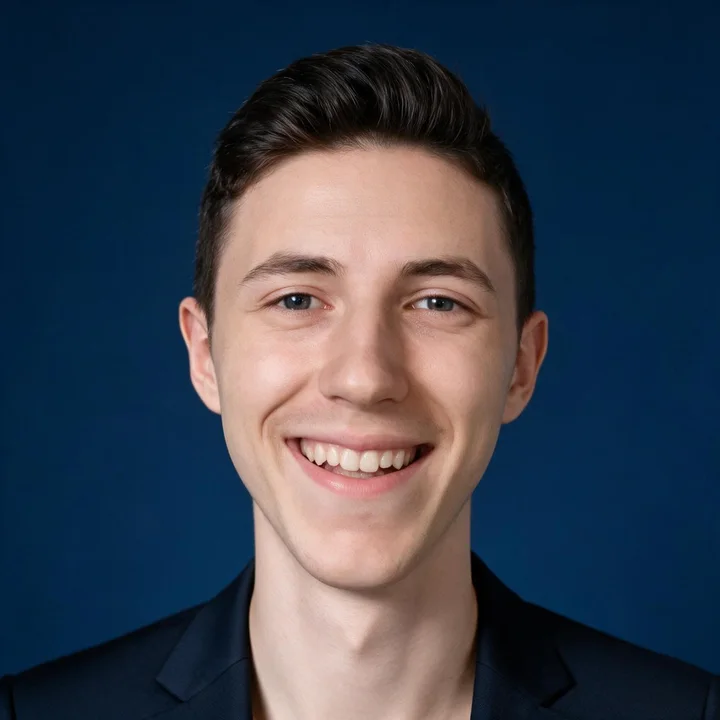
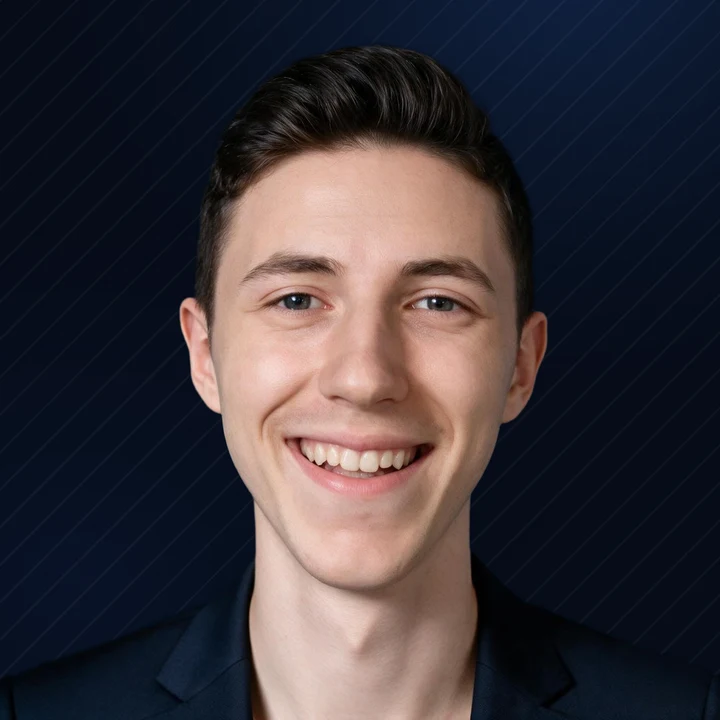
Solid header (no white showing through), struck word white, solid readable testimonial cards, photo on the site background

diff --git a/site/styles.css b/site/styles.css
@@ -540,3 +540,14 @@ h1, h2, h3 { font-family: var(--font-display); font-weight: 900; font-variation-
 .join-steps h3 { font-size: 1.55rem; }
 .bp-num, .join-steps li::before, .steps li::before { font-variation-settings: 'opsz' 72; }
 .reel .reel-track, .reel .reel-track.dragging { scroll-snap-type: none; }
+
+/* ---------- Round 10 ---------- */
+/* solid header: the 86% see-through one let the white page show through at the top */
+html { background: var(--navy-900); }
+.site-header { background: var(--navy-900); backdrop-filter: none; -webkit-backdrop-filter: none; }
+/* struck word stays white like the rest of the line; only the strike line is amber */
+.strike { color: inherit; }
+/* testimonial cards: solid, no texture or grey overlay behind the text */
+.t-card { background: var(--navy-800); box-shadow: 0 0 0 1px rgba(255,255,255,.08), 0 18px 40px -20px rgba(0,0,0,.7); position: relative; z-index: 1; }
+.t-card blockquote { color: #F1F4F8; }
+.t-card figcaption { color: #C3CDDA; }

diff --git a/site/index.html b/site/index.html
@@ -38,7 +38,7 @@
           <a class="btn btn-primary" href="/book">Book a call</a>
         </div>
       </div>
-      <img class="hero-photo" src="/pascal-sterzik.webp" width="720" height="720" alt="Pascal Sterzik">
+      <img class="hero-photo" src="/pascal-sterzik.webp?v=10" width="720" height="720" alt="Pascal Sterzik">
     </div>
     <div class="wrap">
       <div class="t-grid">
@@ -113,7 +113,7 @@
 
   <section class="section section-paper" aria-labelledby="about-h">
     <div class="wrap about-grid">
-      <img class="about-photo" src="/pascal-sterzik.webp" width="720" height="720" alt="Pascal Sterzik" loading="lazy">
+      <img class="about-photo" src="/pascal-sterzik.webp?v=10" width="720" height="720" alt="Pascal Sterzik" loading="lazy">
       <div>
         <h2 id="about-h">About me</h2>
         <p class="about-text">I'm Pascal, a freelance creative strategist from Germany. I live in a small wine village on the Moselle river.</p>
